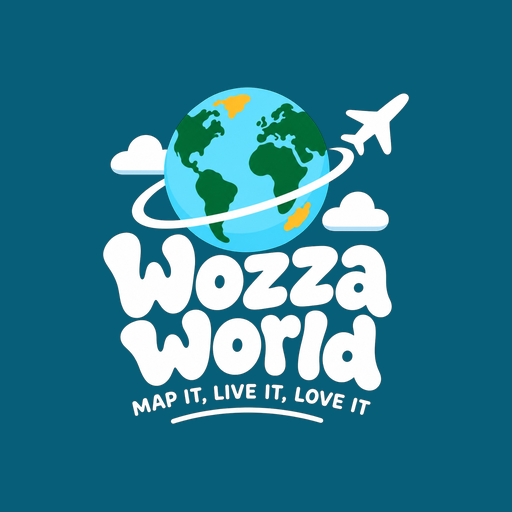
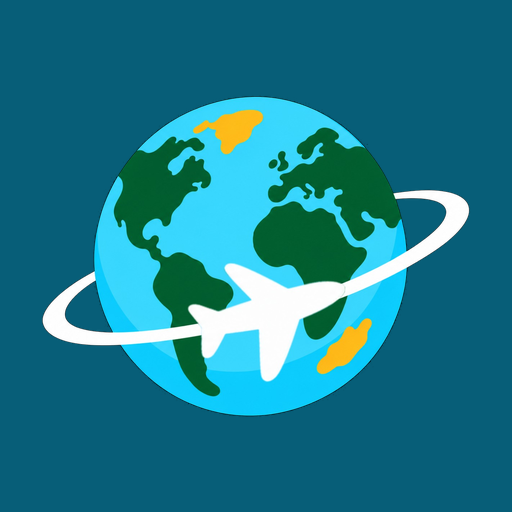
Add files via upload

diff --git a/index.html b/index.html
@@ -5,9 +5,9 @@
 <meta name="viewport" content="width=device-width,initial-scale=1,viewport-fit=cover">
 <meta name="theme-color" content="#075E78">
 <title>WozzaWorld</title>
-<link rel="manifest" href="manifest.webmanifest?v=0.19.2">
-<link rel="icon" href="icon-192.png?v=0.19.2" type="image/svg+xml">
-<link rel="apple-touch-icon" href="icon-192.png?v=0.19.2">
+<link rel="manifest" href="manifest.webmanifest?v=0.19.3">
+<link rel="icon" href="icon-192.png?v=0.19.3" type="image/svg+xml">
+<link rel="apple-touch-icon" href="icon-192.png?v=0.19.3">
 <link href="https://fonts.googleapis.com/css2?family=Archivo+Black&family=Inter:wght@400;600;700;800&display=swap" rel="stylesheet">
 <link rel="stylesheet" href="styles.css?v=0.18.92-header-launch-polish">
 <script src="https://cdn.jsdelivr.net/npm/d3@7/dist/d3.min.js"></script>
@@ -34,7 +34,7 @@
     <img class="splash-cloud-img cloud-r3" src="cloud-b.svg?v=0.16.8" alt="">
     <img class="splash-cloud-img cloud-r4" src="cloud-a.svg?v=0.16.8" alt="">
   </div>
-  <div class="launch-brand-lockup"><img class="launch-logo" src="wozzaworld-logo.png?v=0.16.8" alt=""><div class="launch-tagline">MAP IT. LIVE IT. LOVE IT.</div></div>
+  <div class="launch-brand-lockup"><img class="launch-logo" src="wozzaworld-startup-logo.png?v=0.19.3" alt="WozzaWorld - Map it, live it, love it"></div></div>
 </div>
 <script>setTimeout(()=>document.getElementById('launchSplash')?.classList.add('hide'),2700)</script>
 <div class="map-view-title" id="mapViewTitle">MY WORLD VIEW</div>
@@ -55,7 +55,7 @@
       <svg viewBox="0 0 32 32" aria-hidden="true"><circle cx="16" cy="9" r="5"/><path d="M5 28v-3c0-5.2 4.9-8.5 11-8.5s11 3.3 11 8.5v3z"/></svg><span>Passport</span>
     </button>
   </nav>
-  <button class="brand home-link premium-brand ecosystem-brand" id="homeLogo" aria-label="WozzaWorld"><img class="brand-main-logo restored-logo" src="wozzaworld-logo.png?v=0.16.8" alt="WozzaWorld"></button>
+  <button class="brand home-link premium-brand ecosystem-brand" id="homeLogo" aria-label="WozzaWorld"><img class="brand-main-logo restored-logo" src="wozzaworld-banner-logo.png?v=0.19.3" alt="WozzaWorld"></button>
 </header>
 
 <button id="installBtn" class="install-btn" type="button" aria-label="Add WozzaWorld to phone">＋ Add WozzaWorld to phone</button>

diff --git a/sw.js b/sw.js
@@ -1,5 +1,5 @@
-const CACHE='wozzaworld-0.19.2-startup-icon';
-const LOCAL=['./','./index.html','./styles.css?v=0.18.91-runtime-fix','./cities-data.js?v=0.17.2','./app.js?v=0.18.91-runtime-fix','./manifest.webmanifest?v=0.19.2','./icon-192.png?v=0.19.2','./icon-192.png?v=0.19.2','./icon-512.png?v=0.19.2','./wozzaworld-logo.png?v=0.16.8','./cloud-a.svg?v=0.16.8','./cloud-b.svg?v=0.16.8'];
+const CACHE='wozzaworld-0.19.3-brand-system';
+const LOCAL=['./','./index.html','./styles.css?v=0.19.3','./cities-data.js?v=0.17.2','./app.js?v=0.18.91-runtime-fix','./manifest.webmanifest?v=0.19.3','./icon-192.png?v=0.19.3','./icon-192.png?v=0.19.3','./icon-512.png?v=0.19.3','./wozzaworld-banner-logo.png?v=0.19.3','./wozzaworld-startup-logo.png?v=0.19.3','./cloud-a.svg?v=0.16.8','./cloud-b.svg?v=0.16.8'];
 self.addEventListener('install',e=>e.waitUntil(caches.open(CACHE).then(c=>c.addAll(LOCAL)).then(()=>self.skipWaiting())));
 self.addEventListener('activate',e=>e.waitUntil(caches.keys().then(keys=>Promise.all(keys.filter(k=>k!==CACHE).map(k=>caches.delete(k)))).then(()=>self.clients.claim())));
 self.addEventListener('fetch',e=>{if(e.request.method!=='GET')return;e.respondWith(fetch(e.request,{cache:'no-store'}).then(r=>{const copy=r.clone();caches.open(CACHE).then(c=>c.put(e.request,copy));return r}).catch(()=>caches.match(e.request).then(r=>r||caches.match('./index.html'))))});

diff --git a/styles.css b/styles.css
@@ -4221,14 +4221,18 @@ body.trip-selection-focus header{
   backdrop-filter:blur(3px)!important;
 }
 
-
-/* v0.18.94 - launch clouds pass in front of the logo. */
+/* v0.19.3 - final WozzaWorld branding system */
+.launch-splash{background:#075E78!important}
+.launch-brand-lockup{z-index:4!important;width:min(84vw,410px)!important;gap:0!important}
+.launch-brand-lockup .launch-logo{width:min(78vw,370px)!important;height:auto!important;object-fit:contain!important}
+.launch-tagline{display:none!important}
 .launch-splash .splash-cloud-bank{z-index:5!important}
-
-/* v0.18.95 - keep the WozzaWorld header logo in scale with the nav icons. */
-.brand-main-logo.restored-logo{
-  width:auto!important;
-  height:64px!important;
-  max-width:112px!important;
-  object-fit:contain!important;
+.launch-splash .splash-cloud-img{
+  opacity:.78!important;
+  filter:blur(1.8px) drop-shadow(0 10px 24px rgba(7,94,120,.16))!important;
 }
+.ecosystem-brand .brand-main-logo{
+  width:88px!important;height:64px!important;max-width:100%!important;object-fit:contain!important
+}
+@media(max-width:560px){.ecosystem-brand .brand-main-logo{width:76px!important;height:58px!important}}
+@media(max-width:390px){.ecosystem-brand .brand-main-logo{width:70px!important;height:54px!important}}
